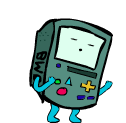
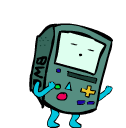
Give an Animation variants, and the climb its own art
More of the pack earns its place: the skateboard joins the singing as
an idle, the football joins the walk, and the climb frames play when
BMO scales a display edge. Variants are a new manifest fact —
variant_of names a base, and the renderer cycles the ring by whole
loops a few seconds apiece, a pure function of elapsed time in the
same sense frame selection already is. The engine changes one word:
Climbing now asks for "climb", the first optional Animation, and a
package without one climbs in its walk art.

diff --git a/crates/core/src/character.rs b/crates/core/src/character.rs
@@ -118,6 +118,13 @@ pub const DEFAULT_SCALE: u32 = 4;
 /// to be bigger on screen should be authored bigger instead.
 pub const MAX_SCALE: u32 = 4;
 
+/// How long the renderer holds each member of a variant ring, at least.
+///
+/// Rounded up to whole loops of the member playing, so the ring never cuts an
+/// Animation mid-stride. A few seconds reads as a mood; loop-for-loop
+/// alternation reads as a costume glitch.
+pub const VARIANT_HOLD_MS: u32 = 4000;
+
 /// The largest either side of a frame may be, in pixels.
 ///
 /// A PNG header costs the same few dozen bytes whatever size it claims, so a
@@ -200,6 +207,10 @@ pub struct Animation {
     pub fps: u32,
     /// Whether the Animation repeats or holds its last frame.
     pub looping: bool,
+    /// Names of the Animations that declared `variant_of` this one, in name
+    /// order. The renderer cycles through this one and each of these in turn,
+    /// holding each for a few seconds of whole loops.
+    pub variants: Vec<String>,
 }
 
 impl Animation {
@@ -302,6 +313,10 @@ pub struct Character {
 
 /// What the renderer needs to draw one tick.
 pub struct Drawn<'a> {
+    /// The Animation actually drawing — the one asked for, its optional
+    /// fallback, or the variant the ring has cycled to. The renderer indexes
+    /// its art by this name, never by the one the engine asked with.
+    pub animation: &'a str,
     pub mask: &'a AlphaMask,
     /// The frame's size in pixels, before any scaling.
     pub frame_size: (u32, u32),
@@ -323,17 +338,66 @@ impl Character {
     /// Substituting a different Animation would be worse than drawing nothing,
     /// because the renderer would still be told the name it asked for.
     pub fn draw(&self, animation: &str, animation_ms: u32) -> Option<Drawn<'_>> {
-        let animation = self.animations.get(animation)?;
-        let index = animation.frame_at(animation_ms);
+        let (name, animation, local_ms) = self.resolve(animation, animation_ms)?;
+        let index = animation.frame_at(local_ms);
         let art = self.art.get(animation.frames.get(index)?)?;
 
         Some(Drawn {
+            animation: name,
             mask: &art.mask,
             frame_size: animation.frame_size,
             index,
         })
     }
+
+    /// Which Animation actually draws: the one asked for, its optional
+    /// fallback, or — when it anchors a variant ring — whichever member the
+    /// elapsed time has cycled to, with the time already spent in its slot.
+    ///
+    /// Pure in the same sense as `frame_at`: elapsed milliseconds in, art
+    /// out. The engine keeps saying "idle"; that a Character skateboards
+    /// through some of its idling is the art's own business.
+    fn resolve(&self, requested: &str, ms: u32) -> Option<(&str, &Animation, u32)> {
+        let (name, base) = match self.animations.get_key_value(requested) {
+            Some(found) => found,
+            None => {
+                let (_, fallback) = OPTIONAL_FALLBACKS
+                    .iter()
+                    .find(|(optional, _)| *optional == requested)?;
+                self.animations.get_key_value(*fallback)?
+            }
+        };
+        if base.variants.is_empty() {
+            return Some((name.as_str(), base, ms));
+        }
+
+        let members: Vec<(&str, &Animation)> = std::iter::once((name.as_str(), base))
+            .chain(base.variants.iter().filter_map(|variant| {
+                self.animations
+                    .get_key_value(variant)
+                    .map(|(name, animation)| (name.as_str(), animation))
+            }))
+            .collect();
+        let slot = |animation: &Animation| -> u32 {
+            let loop_ms = (animation.frames.len() as u32 * 1000 / animation.fps).max(1);
+            loop_ms * VARIANT_HOLD_MS.div_ceil(loop_ms).max(1)
+        };
+        let total: u32 = members.iter().map(|(_, member)| slot(member)).sum();
+        let mut t = ms % total.max(1);
+        for (member_name, member) in &members {
+            let s = slot(member);
+            if t < s {
+                return Some((member_name, member, t));
+            }
+            t -= s;
+        }
+        unreachable!("the slots sum to the total the time was wrapped to")
+    }
 }
+
+/// Optional Animations, and what draws when a package does not declare them:
+/// used when present, and absent silently, never as a missing sprite.
+const OPTIONAL_FALLBACKS: [(&str, &str); 1] = [("climb", "walk")];
 
 /// How many Behaviors of a loop a rejection spells out before it stops.
 ///
@@ -386,7 +450,17 @@ pub fn load(package: &PackageBytes) -> Result<Character, Vec<String>> {
     }
 
     let personality = personality(package, &mut errors);
-    let (animations, art) = resolve_animations(package, declared.animations, &mut errors);
+    let variant_pairs = check_variants(&declared.animations, &mut errors);
+    let (mut animations, art) = resolve_animations(package, declared.animations, &mut errors);
+    // Linked after resolution so a variant whose frames failed never joins a
+    // ring; its own declaration errors already say why.
+    for (variant, base) in variant_pairs {
+        if animations.contains_key(&variant) {
+            if let Some(base) = animations.get_mut(&base) {
+                base.variants.push(variant);
+            }
+        }
+    }
     let behaviors = resolve_behaviors(declared.behaviors, &mut errors);
 
     match (errors.is_empty(), declared.name) {
@@ -437,6 +511,7 @@ struct DeclaredAnimation {
     frames: Vec<String>,
     fps: u32,
     looping: bool,
+    variant_of: Option<String>,
 }
 
 struct DeclaredBehavior {
@@ -562,10 +637,19 @@ fn parse_animation(
     let mut frames = None;
     let mut fps = DEFAULT_FPS;
     let mut looping = true;
+    let mut variant_of = None;
 
     for (key, item) in table.iter() {
         match key {
             "frames" => frames = frame_list(name, item, manifest, errors),
+            "variant_of" => match item.as_str() {
+                Some(base) if !base.is_empty() => variant_of = Some(base.to_string()),
+                _ => errors.push(format!(
+                    "variant_of for animation {name:?} is {}, and must name \
+                     an animation, as variant_of = \"idle\"",
+                    wrote(manifest, item.span()).unwrap_or("?")
+                )),
+            },
             "fps" => match item.as_integer() {
                 Some(declared) if (1..=i64::from(MAX_FPS)).contains(&declared) => {
                     fps = declared as u32;
@@ -589,7 +673,7 @@ fn parse_animation(
             },
             other => errors.push(format!(
                 "animation {name:?} declares unknown {other:?}; \
-                 an Animation declares frames, fps and loop"
+                 an Animation declares frames, fps, loop and variant_of"
             )),
         }
     }
@@ -604,6 +688,7 @@ fn parse_animation(
         frames,
         fps,
         looping,
+        variant_of,
     })
 }
 
@@ -906,6 +991,7 @@ fn resolve_animations(
                     frame_size,
                     fps: declaration.fps,
                     looping: declaration.looping,
+                    variants: Vec::new(),
                 },
             );
         }
@@ -919,6 +1005,41 @@ fn resolve_animations(
     }
 
     (animations, art)
+}
+
+/// Validate every `variant_of` declaration and hand back the (variant, base)
+/// pairs worth linking.
+///
+/// A variant is more art for an Animation the engine already plays, never a
+/// new Behavior. The renderer cycles a ring by whole loops on its own clock,
+/// so a member that holds its last frame would stall it, and a variant of a
+/// variant would make the ring's order a puzzle: both are rejected.
+fn check_variants(
+    declared: &BTreeMap<String, DeclaredAnimation>,
+    errors: &mut Vec<String>,
+) -> Vec<(String, String)> {
+    let mut pairs = Vec::new();
+    for (name, animation) in declared {
+        let Some(base) = &animation.variant_of else {
+            continue;
+        };
+        match declared.get(base) {
+            _ if base == name => errors.push(format!("animation {name:?} is a variant_of itself")),
+            None => errors.push(format!(
+                "animation {name:?} is a variant_of {base:?}, which is not declared"
+            )),
+            Some(target) if target.variant_of.is_some() => errors.push(format!(
+                "animation {name:?} is a variant_of {base:?}, itself a variant; \
+                 variants ring one base"
+            )),
+            Some(target) if !target.looping || !animation.looping => errors.push(format!(
+                "animation {name:?} and its base {base:?} must both loop \"forever\"; \
+                 the renderer cycles a variant ring by whole loops"
+            )),
+            Some(_) => pairs.push((name.clone(), base.clone())),
+        }
+    }
+    pairs
 }
 
 /// One frame's dimensions, from the PNG header alone.
@@ -1090,6 +1211,7 @@ mod tests {
             frame_size: (2, 2),
             fps,
             looping,
+            variants: Vec::new(),
         }
     }
 
@@ -1633,6 +1755,88 @@ mod tests {
         );
     }
 
+    /// The ring is a pure function of elapsed time: the base holds for whole
+    /// loops adding up to at least `VARIANT_HOLD_MS`, then each variant does,
+    /// then it wraps. The engine keeps asking for "idle" throughout.
+    #[test]
+    fn a_variant_ring_cycles_by_whole_loops_and_wraps() {
+        // idle: one frame at the default 8fps, a 125ms loop, so its slot is
+        // exactly 4000ms of whole loops. spin: one frame at 1fps, 1000ms
+        // loops, a 4000ms slot. The ring is 8000ms around.
+        let manifest = format!(
+            "{}[animations.spin]\nframes = [\"idle-0.png\"]\nfps = 1\nvariant_of = \"idle\"\n",
+            declaring(&REQUIRED_ANIMATIONS)
+        );
+        let character = load_manifest(&manifest).expect("loads");
+
+        let playing = |ms: u32| {
+            character
+                .draw("idle", ms)
+                .expect("draws")
+                .animation
+                .to_string()
+        };
+        assert_eq!(playing(0), "idle");
+        assert_eq!(playing(3999), "idle");
+        assert_eq!(playing(4000), "spin", "the slot ends on a whole loop");
+        assert_eq!(playing(7999), "spin");
+        assert_eq!(playing(8000), "idle", "the ring wraps to its base");
+
+        // Time inside a slot starts at that slot's own zero, so a member
+        // begins at its first frame rather than mid-loop.
+        assert_eq!(character.draw("idle", 4000).expect("draws").index, 0);
+
+        // Asked for directly, a variant is an ordinary Animation.
+        assert_eq!(character.draw("spin", 0).expect("draws").animation, "spin");
+    }
+
+    /// The optional Animation contract: used when present, absent silently —
+    /// a Character without climb art climbs in its walk art, never as a
+    /// missing sprite.
+    #[test]
+    fn climb_is_optional_and_falls_back_to_walk() {
+        let character = load_manifest(&declaring(&REQUIRED_ANIMATIONS)).expect("loads");
+        assert_eq!(character.draw("climb", 0).expect("draws").animation, "walk");
+
+        let manifest = format!(
+            "{}[animations.climb]\nframes = [\"idle-0.png\"]\n",
+            declaring(&REQUIRED_ANIMATIONS)
+        );
+        let character = load_manifest(&manifest).expect("loads");
+        assert_eq!(
+            character.draw("climb", 0).expect("draws").animation,
+            "climb"
+        );
+
+        // The fallback list is closed: an unknown name still draws nothing.
+        assert!(character.draw("saunter", 0).is_none());
+    }
+
+    #[test]
+    fn a_variant_of_nothing_a_variant_or_a_once_loop_is_rejected_by_name() {
+        let manifest = format!(
+            "{}\
+             [animations.a]\nframes = [\"idle-0.png\"]\nvariant_of = \"dance\"\n\
+             [animations.b]\nframes = [\"idle-0.png\"]\nvariant_of = \"idle\"\n\
+             [animations.c]\nframes = [\"idle-0.png\"]\nvariant_of = \"b\"\n\
+             [animations.d]\nframes = [\"idle-0.png\"]\nloop = \"once\"\nvariant_of = \"walk\"\n",
+            declaring(&REQUIRED_ANIMATIONS)
+        );
+        let errors = errors(load_manifest(&manifest));
+        assert_eq!(
+            errors,
+            vec![
+                "animation \"a\" is a variant_of \"dance\", which is not declared".to_string(),
+                "animation \"c\" is a variant_of \"b\", itself a variant; \
+                 variants ring one base"
+                    .to_string(),
+                "animation \"d\" and its base \"walk\" must both loop \"forever\"; \
+                 the renderer cycles a variant ring by whole loops"
+                    .to_string(),
+            ],
+        );
+    }
+
     /// A syntax mistake is one error naming its line, never a cascade: past it
     /// the parser would be guessing, and a guess would report mistakes the
     /// author has not made.
@@ -1864,7 +2068,7 @@ mod tests {
                  frame files, as frames = [\"idle-0.png\"]"
                     .to_string(),
                 "animation \"wave\" declares unknown \"mirrored\"; an Animation declares \
-                 frames, fps and loop"
+                 frames, fps, loop and variant_of"
                     .to_string(),
                 "play for behavior \"chase\" is \"walk\", and must be a list of Primitives, \
                  as play = [\"react\", \"talk\"]"

diff --git a/src-tauri/src/main.rs b/src-tauri/src/main.rs
@@ -100,12 +100,15 @@ struct Drawn {
 /// Pushed every tick rather than fetched, so the webview holds no authoritative
 /// state — it draws what it was last told and remembers nothing.
 #[derive(Clone, Copy, Serialize)]
-struct Placement {
+struct Placement<'a> {
     x: i32,
     y: i32,
     width: i32,
     height: i32,
-    animation: &'static str,
+    /// The Animation whose art to draw — the one `Character::draw` resolved
+    /// (a variant, or an optional Animation's fallback), which is not always
+    /// the name the Engine asked with.
+    animation: &'a str,
     frame_index: usize,
     /// Whether the hide rules have the Character on screen, and how long the
     /// change that decided it was given.
@@ -814,7 +817,7 @@ fn run_frame_loop(
                         y: local.y,
                         width,
                         height,
-                        animation: frame.animation,
+                        animation: drawn.animation,
                         frame_index: drawn.index,
                         visible: presence.visible,
                         fade_ms: presence.fade_ms,

diff --git a/crates/core/src/engine.rs b/crates/core/src/engine.rs
@@ -900,7 +900,9 @@ fn animation_for(state: State) -> &'static str {
         State::Grounded => "idle",
         State::Falling | State::Dragged => "fall",
         State::Perched => "sit",
-        State::Climbing => "walk",
+        // An optional Animation: a Character without climb art draws its walk
+        // instead, resolved by the renderer, never by a missing sprite here.
+        State::Climbing => "climb",
         State::Asleep => "sleep",
     }
 }
@@ -1501,7 +1503,7 @@ mod tests {
 
         let climbing = engine.tick(&proposing("settle"));
         assert_eq!(climbing.state, State::Climbing);
-        assert_eq!(climbing.animation, "walk", "it goes on climbing");
+        assert_eq!(climbing.animation, "climb", "it goes on climbing");
     }
 
     /// Expression is the exception: being startled or speaking says nothing

diff --git a/README.md b/README.md
@@ -398,8 +398,13 @@ real variance rather than against itself:
   `render_mode = "smooth"` and `scale = 1` — the render mode ADR-0006
   reserved, and the first Character to use it. Every pose is cut from the
   pack's 46 and heads right; the Engine's facing mirrors it to walk left.
-  Idling it sings; sitting it plays four games on its own screen. BMO never
-  settles: every Behavior it declares ends on its feet.
+  Idling it sings, then rides its skateboard; walking it sometimes dribbles a
+  football; sitting it plays four games on its own screen; scaling a display
+  edge it climbs hand over hand — `climb` being the one optional Animation
+  the engine asks for by name, with walk art the silent fallback. The idle
+  and walk extras are `variant_of` declarations: more art for the same life,
+  cycled by the renderer a few seconds apiece. BMO never settles: every
+  Behavior it declares ends on its feet.
 - **`characters/nim/` — Nim**, modern pixel art. A palette larger than
   sixteen colours shaded on a ramp lit from the upper left, a translucent
   contact shadow wherever there is ground to cast it on, and twice the frames
